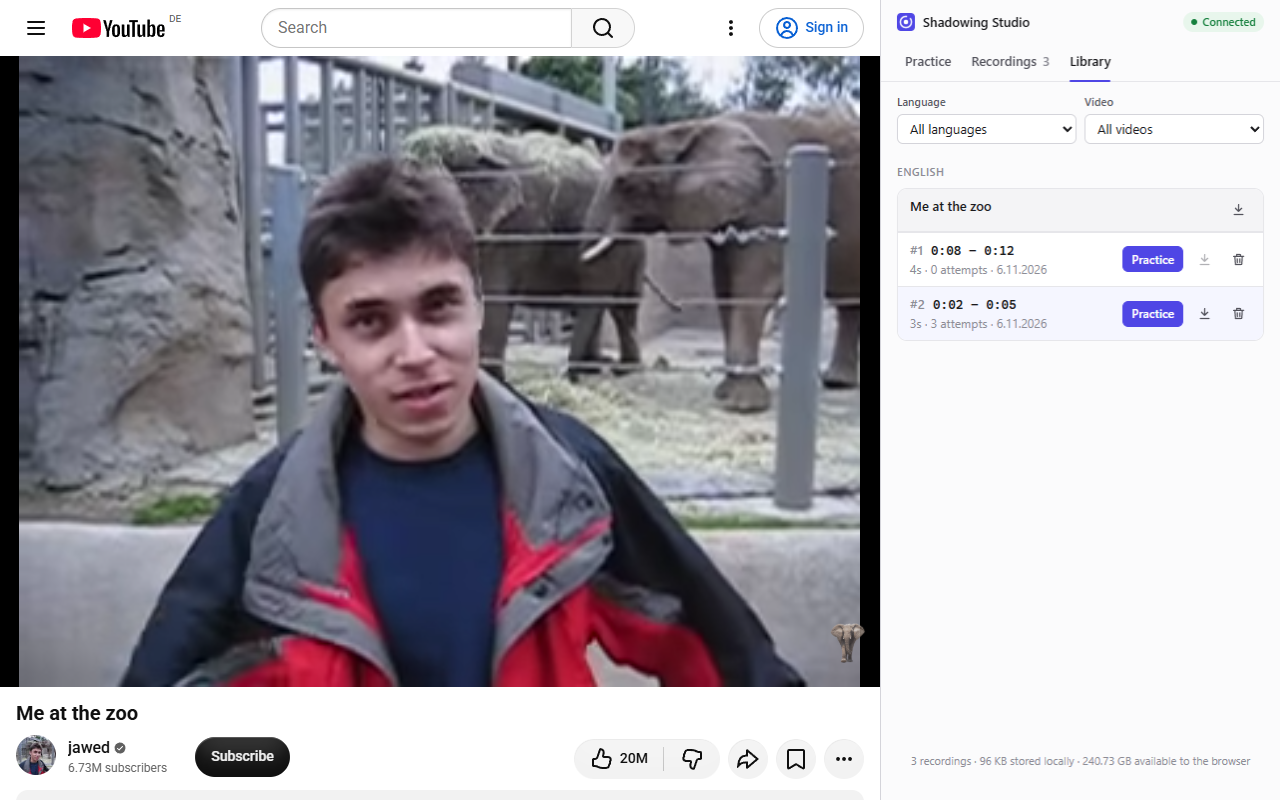
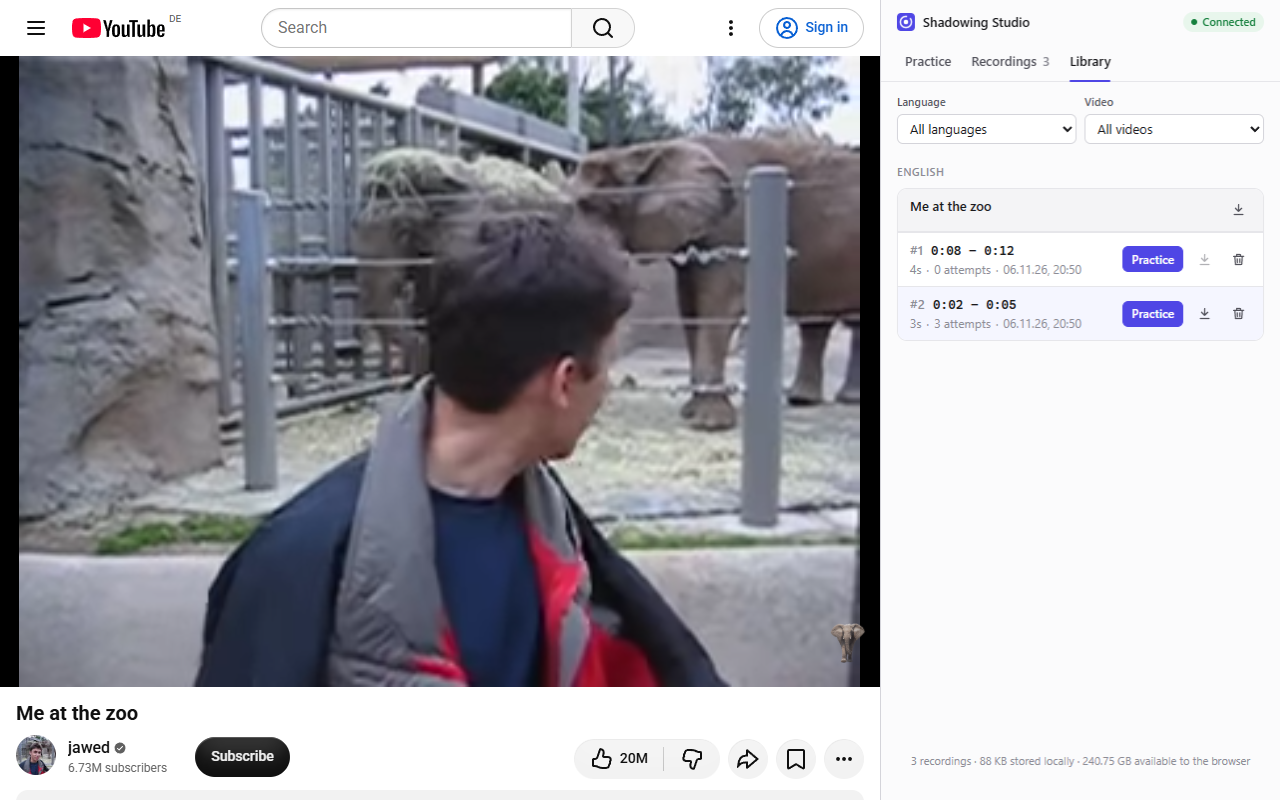
Delete segments from Recordings, play bar only while playing, coherent details
- Recordings tab: delete the segment (and its attempts) with the usual two-click button
- Attempts: the play bar shows only while the attempt is playing
- Attempt name hint: "e.g. Best so far"
- Segments and attempts show the same details: index, length, date/time
  (segments also show their times and number of attempts)
- e2e: play bar and segment deletion checks; kit updated

diff --git a/src/sidepanel/components/RecordingsView.tsx b/src/sidepanel/components/RecordingsView.tsx
@@ -1,10 +1,8 @@
 import { useEffect, useState } from 'react';
-import { formatClock, formatSegmentLength } from '../../shared/time';
+import { formatClock, formatDateTime, formatSegmentLength } from '../../shared/time';
 import { watchUrl, type Recording, type Segment } from '../../shared/types';
 import type { AttemptPlayer } from '../hooks';
 import { Card, ConfirmButton, Empty, Icon } from './ui';
-
-const formatShortDateTime = (epochMs: number) => new Date(epochMs).toLocaleString(undefined, { dateStyle: 'short', timeStyle: 'short' });
 
 export interface RecordingsViewProps {
   segment: Segment | null;
@@ -14,6 +12,7 @@ export interface RecordingsViewProps {
   busy: boolean;
   onPlayOriginal: () => void;
   onDelete: (recording: Recording) => void;
+  onDeleteSegment: (segment: Segment) => void;
   onUpdate: (recording: Recording, patch: { name?: string; notes?: string }) => void;
   onExport: (recordings: Recording[]) => void;
   onGoToPractice: () => void;
@@ -64,13 +63,18 @@ export function RecordingsView(p: RecordingsViewProps) {
                     {formatClock(seg.start)} – {formatClock(seg.end)}
                   </span>
                 </div>
-                <div className="subtle">
-                  {formatSegmentLength(seg.end - seg.start)} · {n} attempt{n === 1 ? '' : 's'} · {seg.language || 'Unsorted'}
+                <div className="subtle meta">
+                  <span>{formatSegmentLength(seg.end - seg.start)}</span>
+                  <span>
+                    {n} attempt{n === 1 ? '' : 's'}
+                  </span>
+                  <span>{formatDateTime(seg.createdAt)}</span>
                 </div>
               </div>
               <button type="button" className="btn btn-sm btn-primary" onClick={p.onPlayOriginal} disabled={!p.canControlVideo || p.busy} title={p.canControlVideo ? undefined : 'Open this video to play the original'}>
                 <Icon name="play" /> Play original
               </button>
+              <ConfirmButton small label={`Delete segment ${seg.number} and its recordings`} confirmLabel="Delete" onConfirm={() => p.onDeleteSegment(seg)} disabled={p.busy} />
             </div>
             {!p.canControlVideo && <p className="hint">Open this segment's video to play the original.</p>}
           </div>
@@ -122,7 +126,7 @@ function AttemptRow({ recording: r, player, busy, onDelete, onUpdate, onExport, 
             <input
               className="name-input"
               value={name}
-              placeholder="Add a name…"
+              placeholder="e.g. Best so far"
               aria-label={`Name of ${title}`}
               maxLength={80}
               onChange={(e) => setName(e.target.value)}
@@ -130,9 +134,9 @@ function AttemptRow({ recording: r, player, busy, onDelete, onUpdate, onExport, 
               onKeyDown={(e) => e.key === 'Enter' && (e.target as HTMLInputElement).blur()}
             />
           </div>
-          <div className="subtle attempt-meta">
-            <span>{formatShortDateTime(r.createdAt)}</span>
-            <span className="mono">{formatClock(duration)}</span>
+          <div className="subtle meta">
+            <span>{formatSegmentLength(duration)}</span>
+            <span>{formatDateTime(r.createdAt)}</span>
             {r.recovered && <span>recovered</span>}
           </div>
         </div>
@@ -147,7 +151,7 @@ function AttemptRow({ recording: r, player, busy, onDelete, onUpdate, onExport, 
         </button>
         <ConfirmButton small label={`Delete ${title}`} confirmLabel="Delete" onConfirm={() => onDelete(r)} disabled={busy} />
       </div>
-      {isCurrent && duration > 0 && (
+      {isPlaying && duration > 0 && (
         <div className="row nowrap">
           <div className="progress grow" aria-hidden>
             <span style={{ width: `${(position / duration) * 100}%` }} />

diff --git a/src/sidepanel/components/LibraryView.tsx b/src/sidepanel/components/LibraryView.tsx
@@ -1,5 +1,5 @@
 import { useEffect, useMemo, useState } from 'react';
-import { formatClock, formatSegmentLength } from '../../shared/time';
+import { formatClock, formatDateTime, formatSegmentLength } from '../../shared/time';
 import { watchUrl, type Segment } from '../../shared/types';
 import type { ShadowingStore } from '../../storage/db';
 import { Banner, Card, ConfirmButton, Empty, formatBytes, Icon } from './ui';
@@ -158,8 +158,12 @@ export function LibraryView(p: LibraryViewProps) {
                             {formatClock(s.start)} – {formatClock(s.end)}
                           </span>
                         </div>
-                        <div className="subtle">
-                          {formatSegmentLength(s.end - s.start)} · {n} attempt{n === 1 ? '' : 's'} · {new Date(s.createdAt).toLocaleDateString()}
+                        <div className="subtle meta">
+                          <span>{formatSegmentLength(s.end - s.start)}</span>
+                          <span>
+                            {n} attempt{n === 1 ? '' : 's'}
+                          </span>
+                          <span>{formatDateTime(s.createdAt)}</span>
                         </div>
                       </div>
                       <button type="button" className="btn btn-sm btn-primary" onClick={() => p.onResume(s)}>

diff --git a/src/sidepanel/App.tsx b/src/sidepanel/App.tsx
@@ -615,6 +615,10 @@ export function App() {
               send({ type: 'playSegment', mode: 'once' });
             }}
             onDelete={(r) => void deleteRecording(r)}
+            onDeleteSegment={(seg) => {
+              attemptPlayer.stop();
+              void deleteSegment(seg);
+            }}
             onUpdate={(r, patch) => void updateRecording(r, patch)}
             onExport={(recs) => saved && void exportItems(recs.map((recording) => ({ segment: saved, recording })))}
             onGoToPractice={() => setTab('practice')}

diff --git a/src/shared/time.ts b/src/shared/time.ts
@@ -66,3 +66,8 @@ export function formatSegmentLength(seconds: number): string {
 function pad(n: number, width: number): string {
   return String(n).padStart(width, '0');
 }
+
+/** Short local date and time (e.g. `06/11/2026, 14:05`), used for both segments and attempts. */
+export function formatDateTime(epochMs: number): string {
+  return new Date(epochMs).toLocaleString(undefined, { dateStyle: 'short', timeStyle: 'short' });
+}

diff --git a/src/sidepanel/styles.css b/src/sidepanel/styles.css
@@ -921,7 +921,7 @@ select.input {
   color: var(--danger);
 }
 
-.attempt-meta span + span::before {
+.meta span + span::before {
   content: '·';
   margin: 0 5px;
   font-family: var(--font);

diff --git a/README.md b/README.md
@@ -19,9 +19,11 @@ practice library. No account, no cloud: recordings stay on your computer.
     recording ends.
   - *Listen & repeat*: *Listen* plays the segment once and pauses; then *Record* your imitation;
     *Listen again* for the next try.
-- **Attempts**: unlimited independent recordings per segment, each with attempt number, date, time and
-  duration. You can rename them, add notes, delete them and play them; *Play original* replays the
-  YouTube segment so you can compare by ear.
+- **Attempts**: unlimited independent recordings per segment. Segments and attempts show the same kind
+  of details: index, length and date/time (segments also show their times and number of attempts). You
+  can rename attempts, add notes, delete them and play them (a play bar shows while one plays); *Play
+  original* replays the YouTube segment so you can compare by ear. Segments can be deleted, with their
+  attempts, from the Recordings tab or the Library.
 - **Library**: organised by Language → Video → Segment (languages and videos in alphabetical order,
   segments without a language last under *Unsorted*; segments in the order they were created, #1, #2…), with language and video filters. *Practice*
   reopens the video at the segment and restores it.
@@ -149,11 +151,11 @@ a REC badge on the toolbar icon show it is active.
 - `filename.test.ts`: sanitisation, reserved names, export paths, de-duplication, `info.json`.
 
 `npm run test:e2e` drives your installed Chrome (via `playwright-core`; no browser download) against a real
-YouTube video with Chrome's **fake microphone**. It runs 41 checks, all passing on the last run: install,
+YouTube video with Chrome's **fake microphone**. It runs 45 checks, all passing on the last run: install,
 connect, timestamps, loop bounds at 0.5×/1×/2×, loop off, REC badge, shadowing auto-stop, listen & repeat
-pause and record, decoded WebM/Opus audio with a duration header, playback, rename, attempt highlighting, play original, toasts, export folder
+pause and record, decoded WebM/Opus audio with a duration header, playback, rename, attempt highlighting, play bar, play original, toasts, export folder
 structure, delete, SPA navigation, no console errors, **library and recordings after restarting Chrome**,
-and reopening a segment from the library. It handles YouTube's EU cookie dialog by declining non-essential
+reopening a segment from the library and deleting a segment. It handles YouTube's EU cookie dialog by declining non-essential
 cookies. Set `E2E_HEADED=1` to watch it run, or `E2E_SHOTS=<dir>` to save screenshots.
 
 The e2e run cannot cover the following: the real side panel (automation cannot click the toolbar icon, so
@@ -180,8 +182,9 @@ Run this once per release in a normal Chrome profile:
    the toolbar badge all show; it stops at the segment end. Record a second attempt: both are listed.
 7. **Listen & repeat**: *Listen*: it pauses at the end and shows *Your turn*. *Record*, speak, *Stop
    recording*. *Listen again* works.
-8. **Recordings**: play, pause, rename, add notes, *Play original*, delete (two clicks). Older attempts are
-   unaffected.
+8. **Recordings**: play (the play bar shows only while playing), pause, rename, add notes, *Play original*,
+   delete (two clicks). Older attempts are unaffected. Deleting the segment (two clicks) removes it and its
+   attempts.
 9. **Interruptions**: start recording and close the side panel. Reopen it: *Recovered 1 recording*. Start
    recording and unplug the microphone: recording stops, and the audio so far is saved with a message.
 10. **Navigation**: click a recommended video. The panel follows it and the segment resets; the previous

diff --git a/store/LISTING.md b/store/LISTING.md
@@ -44,6 +44,7 @@ YOUR PRACTICE LIBRARY
 • Segments are organised by language and video.
 • Return to any saved sentence later: one click reopens the video at the right spot.
 • Rename attempts and add notes on what to improve.
+• Delete segments and attempts you no longer need.
 • Export recordings as audio files, neatly organised in folders, to keep or share with a teacher.
 
 PRIVATE BY DESIGN
